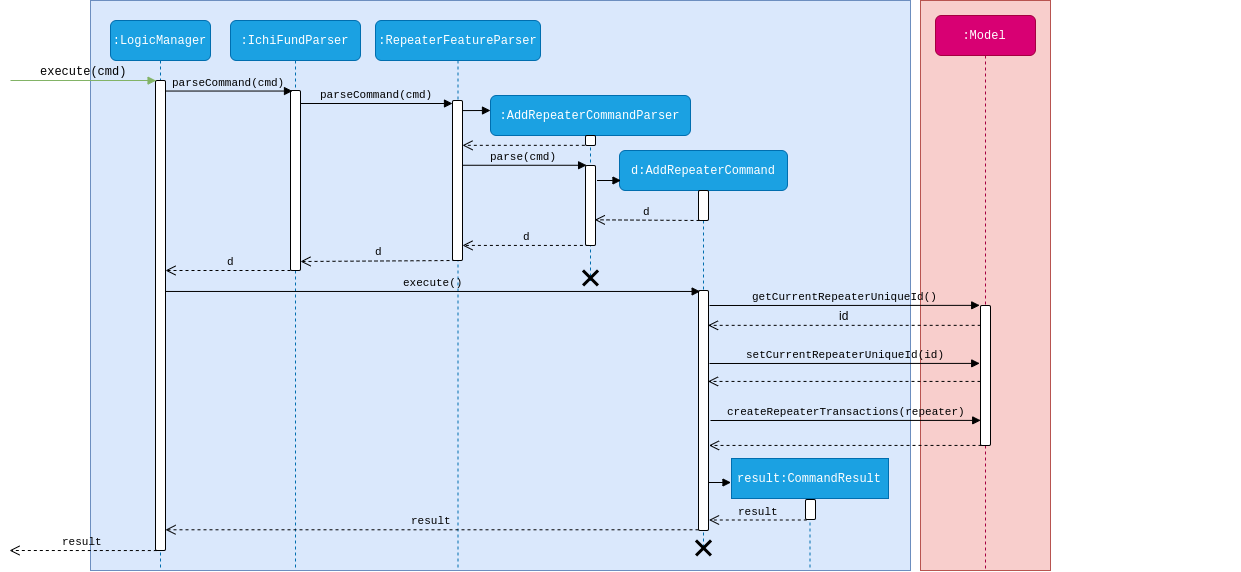
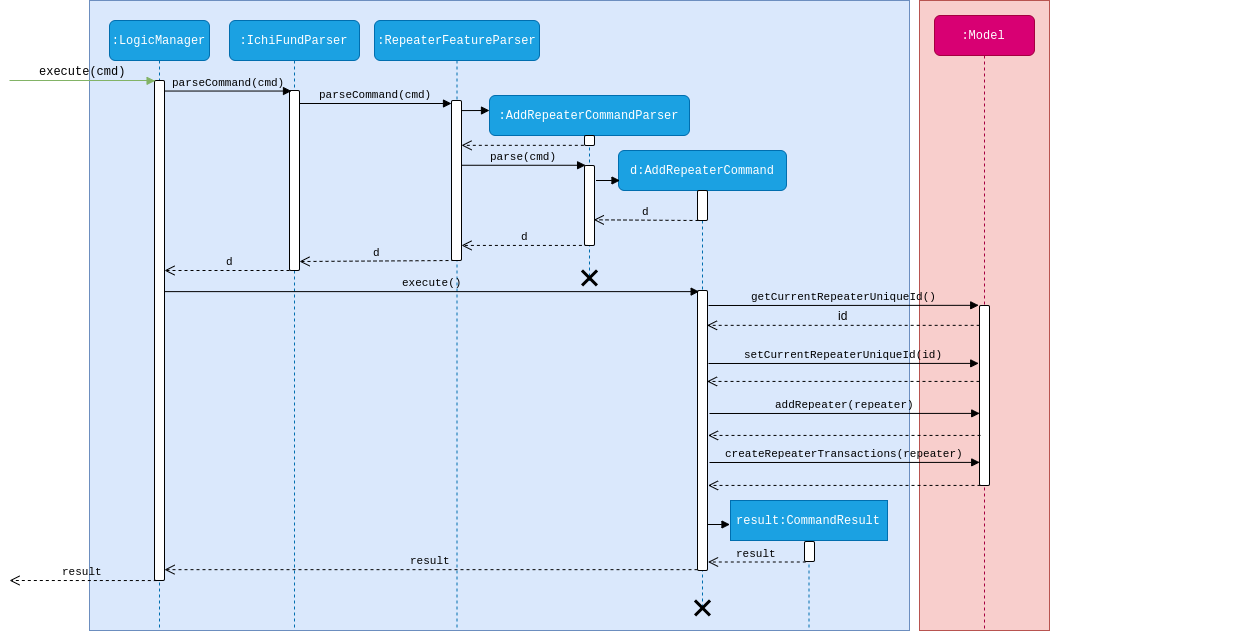
Rebuild pages at 6a0640b617be57365a584a575299c81edace18e9

diff --git a/team/leeyiyuan.html b/team/leeyiyuan.html
@@ -64,6 +64,20 @@ establishing the infrastructure for repeaters.</p>
 </li>
 <li>
 <p><strong>Other contributions</strong>:</p>
+<div class="ulist">
+<ul>
+<li>
+<p>Team:</p>
+<div class="ulist">
+<ul>
+<li>
+<p>Reported bugs and suggestions for other members in the team (examples:  <a href="https://github.com/AY1920S1-CS2103T-W12-4/main/issues/276">276</a>, <a href="https://github.com/AY1920S1-CS2103T-W12-4/main/issues/108">108</a>, <a href="https://github.com/AY1920S1-CS2103T-W12-4/main/issues/24">24</a>)</p>
+</li>
+</ul>
+</div>
+</li>
+</ul>
+</div>
 </li>
 </ul>
 </div>
@@ -265,7 +279,7 @@ Deletes the 12th repeater in the current list. This also deletes the transaction
 <ul>
 <li>
 <p><code>find phone john</code><br>
-This finds all repeaters whose description contains all of the keywords "phone" and "john".</p>
+This finds all repeaters whose description contains any of the keywords "phone" and "john".</p>
 </li>
 </ul>
 </div>
@@ -351,19 +365,31 @@ This finds all repeaters whose description contains all of the keywords "phone" 
 </ul>
 </div>
 <div class="paragraph">
-<p><strong>Step 8</strong>: <code>AddRepeaterCommand</code> fetches the running <code>RepeaterUniqueId</code> counter tracked by the <code>Model</code>, and sets it as the created <code>Repeater</code>'s unique id.</p>
+<p><strong>Step 8</strong>: <code>AddRepeaterCommand</code> fetches the running <code>RepeaterUniqueId</code> counter tracked by the <code>Model</code>.</p>
 </div>
 <div class="paragraph">
-<p><strong>Step 9</strong>: <code>AddRepeaterCommand</code> increments the current <code>RepeaterUniqueId</code> counter in the <code>Model</code>.</p>
+<p><strong>Step 9</strong>: <code>AddRepeaterCommand</code> creates the <code>Repeater</code> and sets its unique id as the fetched <code>RepeaterUniqueId</code>.</p>
 </div>
 <div class="paragraph">
-<p><strong>Step 10</strong>: <code>AddRepeaterCommand</code> adds the newly created <code>Repeater</code> to the <code>Model</code>.</p>
+<p><strong>Step 10</strong>: <code>AddRepeaterCommand</code> increments the current <code>RepeaterUniqueId</code> counter in the <code>Model</code>.</p>
 </div>
 <div class="paragraph">
-<p><strong>Step 11</strong>: <code>AddRepeaterCommand</code> creates the associated <code>Transaction</code>s in the <code>Model</code>.</p>
+<p><strong>Step 11</strong>: <code>AddRepeaterCommand</code> adds the newly created <code>Repeater</code> to the <code>Model</code>.</p>
 </div>
 <div class="paragraph">
-<p><strong>Step 12</strong>: <code>AddRepeaterCommand</code> returns a <code>CommandResult</code> to the <code>LogicManager</code> which is returned back to the user.</p>
+<p><strong>Step 12</strong>: <code>AddRepeaterCommand</code> creates the associated <code>Transaction</code>s in the <code>Model</code>.</p>
+</div>
+<div class="paragraph">
+<p><strong>Step 13</strong>: <code>AddRepeaterCommand</code> returns a <code>CommandResult</code> to the <code>LogicManager</code> which is returned back to the user.</p>
+</div>
+<div class="paragraph">
+<p>When creating a <code>Repeater</code>, <code>AddRepeaterCommandParser</code> fills in arguments unspecified by the user with default values, as shown in the activity diagram below:</p>
+</div>
+<div class="imageblock">
+<div class="content">
+<img src="../images/RepeaterOptionalActivityDiagram.png" alt="RepeaterOptionalActivityDiagram">
+</div>
+<div class="title">Figure 3. Activity Diagram for Optional Arguments in <code>AddRepeaterCommandParser</code></div>
 </div>
 </div>
 </div>
@@ -428,15 +454,6 @@ This finds all repeaters whose description contains all of the keywords "phone" 
 </div>
 <div class="paragraph">
 <p><strong>Step 13</strong>: <code>EditRepeaterCommand</code> returns a <code>CommandResult</code> to the <code>LogicManager</code> which is returned back to the user.</p>
-</div>
-<div class="paragraph">
-<p>When creating an <code>EditRepeaterDescriptor</code>, <code>EditRepeaterCommandParser</code> fills in arguments unspecified by the user with default values, as shown in the activity diagram below:</p>
-</div>
-<div class="imageblock">
-<div class="content">
-<img src="../images/RepeaterOptionalActivityDiagram.png" alt="RepeaterOptionalActivityDiagram">
-</div>
-<div class="title">Figure 3. Activity Diagram for Optional Arguments in <code>EditRepeaterCommandParser</code></div>
 </div>
 </div>
 </div>
@@ -526,4 +543,4 @@ This finds all repeaters whose description contains all of the keywords "phone" 
 </div>
 </div>
 </div>
-</div></div><div id="footer"><div class="container"><div id="footer-text">Last updated 2019-11-11 14:06:20 UTC</div></div></div></body></html>
+</div></div><div id="footer"><div class="container"><div id="footer-text">Last updated 2019-11-11 14:22:44 UTC</div></div></div></body></html>

diff --git a/DeveloperGuide.html b/DeveloperGuide.html
@@ -1090,19 +1090,31 @@ describes the behaviour of <code>DeleteTransactionCommand</code> at each step:</
 </ul>
 </div>
 <div class="paragraph">
-<p><strong>Step 8</strong>: <code>AddRepeaterCommand</code> fetches the running <code>RepeaterUniqueId</code> counter tracked by the <code>Model</code>, and sets it as the created <code>Repeater</code>'s unique id.</p>
+<p><strong>Step 8</strong>: <code>AddRepeaterCommand</code> fetches the running <code>RepeaterUniqueId</code> counter tracked by the <code>Model</code>.</p>
 </div>
 <div class="paragraph">
-<p><strong>Step 9</strong>: <code>AddRepeaterCommand</code> increments the current <code>RepeaterUniqueId</code> counter in the <code>Model</code>.</p>
+<p><strong>Step 9</strong>: <code>AddRepeaterCommand</code> creates the <code>Repeater</code> and sets its unique id as the fetched <code>RepeaterUniqueId</code>.</p>
 </div>
 <div class="paragraph">
-<p><strong>Step 10</strong>: <code>AddRepeaterCommand</code> adds the newly created <code>Repeater</code> to the <code>Model</code>.</p>
+<p><strong>Step 10</strong>: <code>AddRepeaterCommand</code> increments the current <code>RepeaterUniqueId</code> counter in the <code>Model</code>.</p>
 </div>
 <div class="paragraph">
-<p><strong>Step 11</strong>: <code>AddRepeaterCommand</code> creates the associated <code>Transaction</code>s in the <code>Model</code>.</p>
+<p><strong>Step 11</strong>: <code>AddRepeaterCommand</code> adds the newly created <code>Repeater</code> to the <code>Model</code>.</p>
 </div>
 <div class="paragraph">
-<p><strong>Step 12</strong>: <code>AddRepeaterCommand</code> returns a <code>CommandResult</code> to the <code>LogicManager</code> which is returned back to the user.</p>
+<p><strong>Step 12</strong>: <code>AddRepeaterCommand</code> creates the associated <code>Transaction</code>s in the <code>Model</code>.</p>
+</div>
+<div class="paragraph">
+<p><strong>Step 13</strong>: <code>AddRepeaterCommand</code> returns a <code>CommandResult</code> to the <code>LogicManager</code> which is returned back to the user.</p>
+</div>
+<div class="paragraph">
+<p>When creating a <code>Repeater</code>, <code>AddRepeaterCommandParser</code> fills in arguments unspecified by the user with default values, as shown in the activity diagram below:</p>
+</div>
+<div class="imageblock">
+<div class="content">
+<img src="images/RepeaterOptionalActivityDiagram.png" alt="RepeaterOptionalActivityDiagram">
+</div>
+<div class="title">Figure 18. Activity Diagram for Optional Arguments in <code>AddRepeaterCommandParser</code></div>
 </div>
 </div>
 </div>
@@ -1167,15 +1179,6 @@ describes the behaviour of <code>DeleteTransactionCommand</code> at each step:</
 </div>
 <div class="paragraph">
 <p><strong>Step 13</strong>: <code>EditRepeaterCommand</code> returns a <code>CommandResult</code> to the <code>LogicManager</code> which is returned back to the user.</p>
-</div>
-<div class="paragraph">
-<p>When creating an <code>EditRepeaterDescriptor</code>, <code>EditRepeaterCommandParser</code> fills in arguments unspecified by the user with default values, as shown in the activity diagram below:</p>
-</div>
-<div class="imageblock">
-<div class="content">
-<img src="images/RepeaterOptionalActivityDiagram.png" alt="RepeaterOptionalActivityDiagram">
-</div>
-<div class="title">Figure 18. Activity Diagram for Optional Arguments in <code>EditRepeaterCommandParser</code></div>
 </div>
 </div>
 </div>
@@ -2466,4 +2469,4 @@ Expected: Similar to previous.</p>
 </div>
 </div>
 </div>
-</div></div><div id="footer"><div class="container"><div id="footer-text">Last updated 2019-11-11 14:06:20 UTC</div></div></div></body></html>
+</div></div><div id="footer"><div class="container"><div id="footer-text">Last updated 2019-11-11 14:22:44 UTC</div></div></div></body></html>

diff --git a/UserGuide.html b/UserGuide.html
@@ -1021,7 +1021,7 @@ Deletes the 12th repeater in the current list. This also deletes the transaction
 <ul>
 <li>
 <p><code>find phone john</code><br>
-This finds all repeaters whose description contains all of the keywords "phone" and "john".</p>
+This finds all repeaters whose description contains any of the keywords "phone" and "john".</p>
 </li>
 </ul>
 </div>
@@ -1812,4 +1812,4 @@ Displays expenditure ranking chart for July 2019.</p>
 </ul>
 </div>
 </div>
-</div></div><div id="footer"><div class="container"><div id="footer-text">Last updated 2019-11-11 14:06:20 UTC</div></div></div></body></html>
+</div></div><div id="footer"><div class="container"><div id="footer-text">Last updated 2019-11-11 14:22:44 UTC</div></div></div></body></html>

diff --git a/tutorials/RemovingFields.html b/tutorials/RemovingFields.html
@@ -175,4 +175,4 @@ While keeping the <code>address</code> field in the json files does not cause th
 <p>You can go through each individual <code>json</code> file and manually remove the <code>address</code> field.</p>
 </div>
 </div>
-</div></div><div id="footer"><div class="container"><div id="footer-text">Last updated 2019-11-11 14:06:20 UTC</div></div></div></body></html>
+</div></div><div id="footer"><div class="container"><div id="footer-text">Last updated 2019-11-11 14:22:44 UTC</div></div></div></body></html>

diff --git a/Testing.html b/Testing.html
@@ -90,4 +90,4 @@ e.g. <code>seedu.ichifund.logic.LogicManagerTest</code></p>
 <div class="title">Figure 1. <code>Accessibility</code> permission is granted to <code>IntelliJ IDEA</code></div>
 </div>
 </div>
-</div></div><div id="footer"><div class="container"><div id="footer-text">Last updated 2019-11-11 14:06:20 UTC</div></div></div></body></html>
+</div></div><div id="footer"><div class="container"><div id="footer-text">Last updated 2019-11-11 14:22:44 UTC</div></div></div></body></html>

diff --git a/ContactUs.html b/ContactUs.html
@@ -12,4 +12,4 @@
 <p><strong>Email us</strong> : You can also reach us at <code>elimwj [at] comp.nus.edu.sg</code></p>
 </li>
 </ul>
-</div></div><div id="footer"><div class="container"><div id="footer-text">Last updated 2019-11-11 14:06:20 UTC</div></div></div></body></html>
+</div></div><div id="footer"><div class="container"><div id="footer-text">Last updated 2019-11-11 14:22:44 UTC</div></div></div></body></html>

diff --git a/LearningOutcomes.html b/LearningOutcomes.html
@@ -474,4 +474,4 @@ of storages, but different number of storages (e.g. save to both a text file and
 </div>
 </div>
 </div>
-</div></div><div id="footer"><div class="container"><div id="footer-text">Last updated 2019-11-11 14:06:20 UTC</div></div></div></body></html>
+</div></div><div id="footer"><div class="container"><div id="footer-text">Last updated 2019-11-11 14:22:44 UTC</div></div></div></body></html>

diff --git a/SettingUp.html b/SettingUp.html
@@ -180,4 +180,4 @@ Having both Travis and AppVeyor ensures your App works on both Unix-based platfo
 </div>
 </div>
 </div>
-</div></div><div id="footer"><div class="container"><div id="footer-text">Last updated 2019-11-11 14:06:20 UTC</div></div></div></body></html>
+</div></div><div id="footer"><div class="container"><div id="footer-text">Last updated 2019-11-11 14:22:44 UTC</div></div></div></body></html>

diff --git a/team/weiyang13.html b/team/weiyang13.html
@@ -635,4 +635,4 @@ and <a href="https://ay1920s1-cs2103t-w12-4.github.io/main/DeveloperGuide.html#t
 </div>
 </div>
 </div>
-</div></div><div id="footer"><div class="container"><div id="footer-text">Last updated 2019-11-11 14:06:20 UTC</div></div></div></body></html>
+</div></div><div id="footer"><div class="container"><div id="footer-text">Last updated 2019-11-11 14:22:44 UTC</div></div></div></body></html>

diff --git a/UsingCoveralls.html b/UsingCoveralls.html
@@ -111,4 +111,4 @@ If you have not set up Travis CI, see <a href="UsingTravis.html">UsingTravis.ado
 </ol>
 </div>
 </div>
-</div></div><div id="footer"><div class="container"><div id="footer-text">Last updated 2019-11-11 14:06:20 UTC</div></div></div></body></html>
+</div></div><div id="footer"><div class="container"><div id="footer-text">Last updated 2019-11-11 14:22:44 UTC</div></div></div></body></html>

diff --git a/UsingGradle.html b/UsingGradle.html
@@ -228,4 +228,4 @@ See <code>build.gradle</code> &#8594; <code>allprojects</code> &#8594; <code>dep
 </ul>
 </div>
 </div>
-</div></div><div id="footer"><div class="container"><div id="footer-text">Last updated 2019-11-11 14:06:20 UTC</div></div></div></body></html>
+</div></div><div id="footer"><div class="container"><div id="footer-text">Last updated 2019-11-11 14:22:44 UTC</div></div></div></body></html>

diff --git a/UsingNetlify.html b/UsingNetlify.html
@@ -138,4 +138,4 @@ The publish directory is the directory in which the built HTML documentation res
 </ol>
 </div>
 </div>
-</div></div><div id="footer"><div class="container"><div id="footer-text">Last updated 2019-11-11 14:06:20 UTC</div></div></div></body></html>
+</div></div><div id="footer"><div class="container"><div id="footer-text">Last updated 2019-11-11 14:22:44 UTC</div></div></div></body></html>
